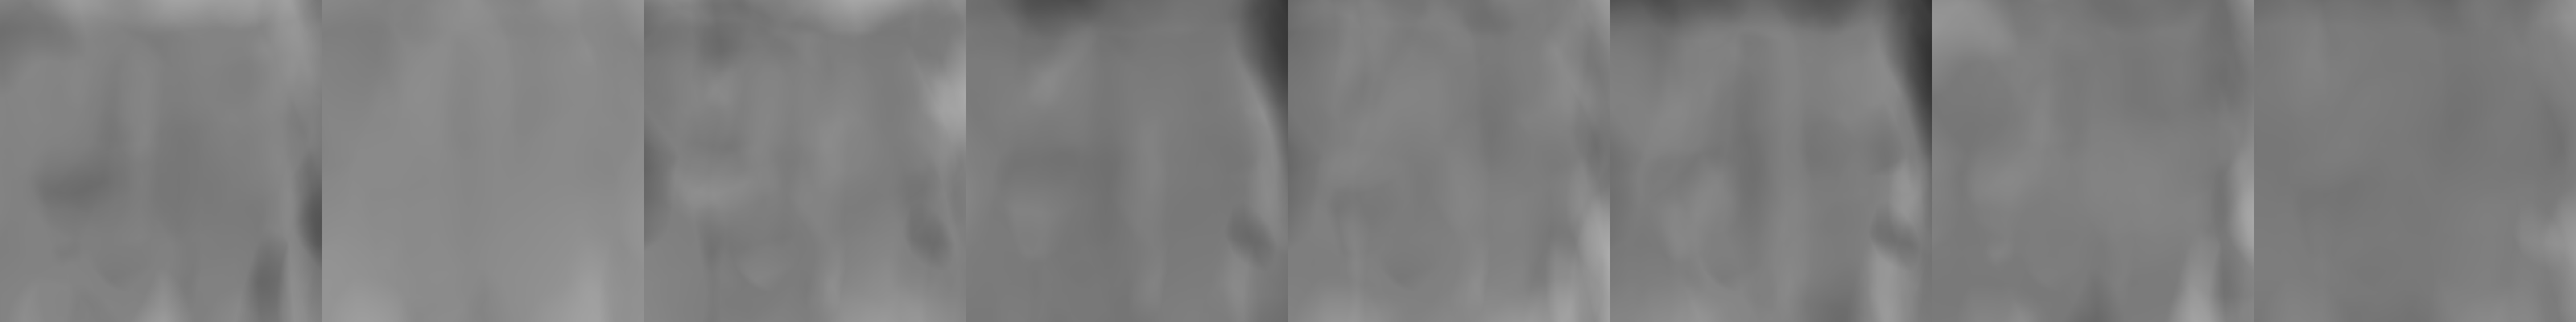
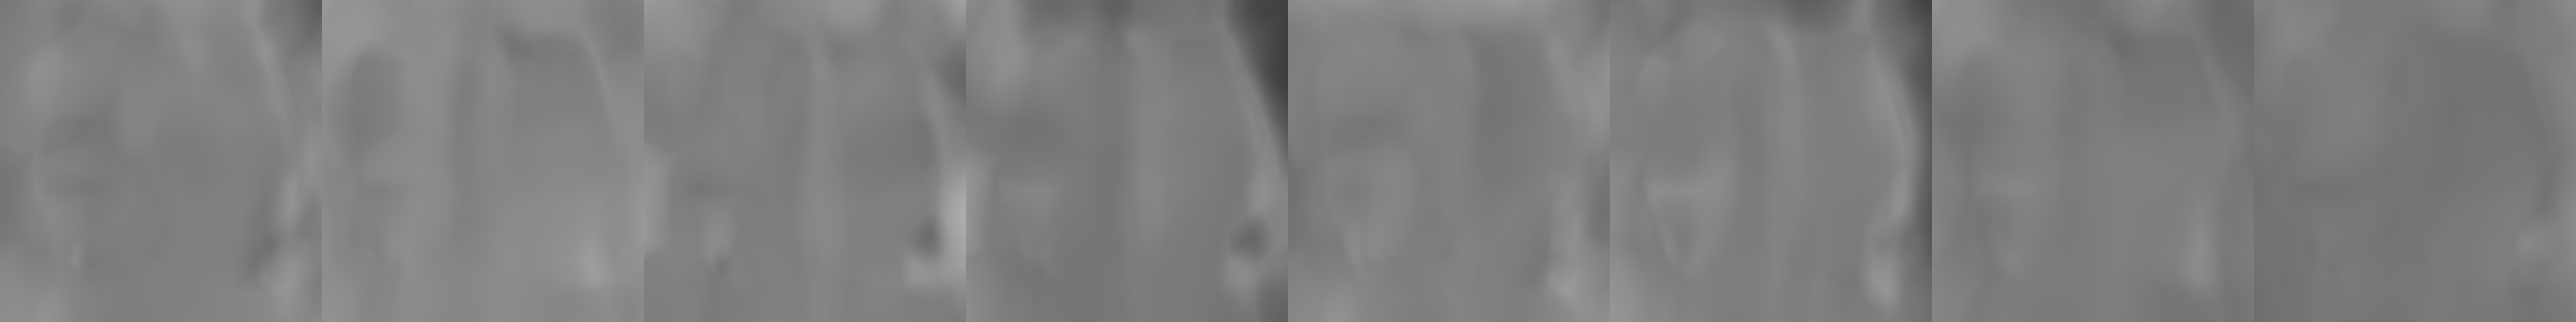
update config

diff --git a/1008/config.js b/1008/config.js
@@ -22,6 +22,6 @@
   const extrinsics = [[0.9970483779907227,-0.05338573455810547,-0.05517757683992386,0.0,0.05408360809087753,0.9984732270240784,0.011231913231313229,0.0,0.05449371039867401,-0.014182965271174908,0.9984133243560791,0.0,-0.826935350894928,0.6216351985931396,-0.19747784733772278,1.0]];
 
   const rads = [[3.6734265327453617,1.0539445400238037,3.140171003341675]];
-  const focal  = 4.778240072969832;
+  const focal  = 34.81103118909663;
 
   
